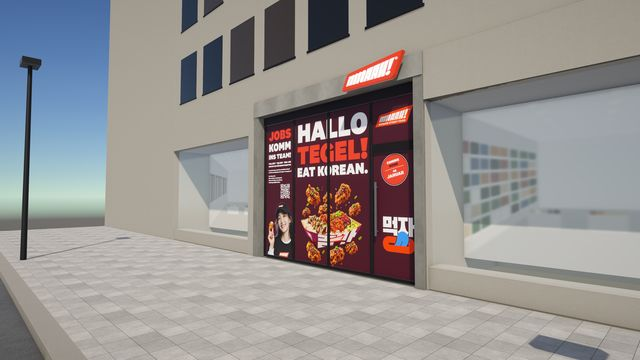
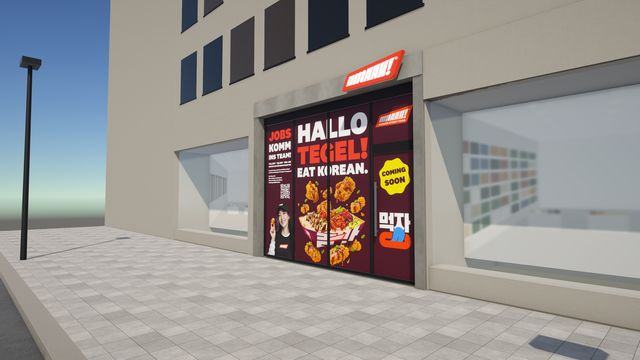
V7: echte Mmaah Bites, Visual größer, gelber Coming Soon Sticker, Tür zentriert, Freisteller ohne Rand

Changed region(s): [[0.4062, 0.4889, 0.6562, 0.7333], [0.5938, 0.4278, 0.6562, 0.55]]

diff --git a/index.html b/index.html
@@ -61,7 +61,7 @@
 <script>
 const VARS = [
   ["v0", "Ohne Folie", "Die Front ohne Beklebung, innen Rohbau, zum Vergleich."],
-  ["v7", "7 · Hallo Tegel (Korrektur 26.11.)", "<b>Hallo Tegel mit den Änderungen vom 26.11.2026.</b> HALLO, TEGEL!, EAT KOREAN. als Blocktext gleich breit, Jobs ebenso, Mitarbeiterin und QR größer, weißes Wallpaper raus. Food Visual aus V6 kleiner und nur auf den beiden mittleren Scheiben, Wings gegen echte Mmaah Bites mit Soy Garlic Soße, Sesam und Schnittlauch getauscht. Tür: Wappen 먹자 mit Mund unten rechts."],
+  ["v7", "7 · Hallo Tegel (Korrektur 26.11.)", "<b>Hallo Tegel mit den Änderungen vom 26.11.2026.</b> HALLO, TEGEL!, EAT KOREAN. als Blocktext gleich breit, Jobs ebenso, Mitarbeiterin sauber freigestellt, QR größer, weißes Wallpaper raus. Food Visual aus V6 größer, nur auf den beiden mittleren Scheiben, Wings gegen die echten Mmaah Bites mit Soy Garlic Soße, Sesam und Schnittlauch getauscht. Tür mittig: gelber Sticker COMING SOON (ohne Datum) und Wappen 먹자 mit Mund."],
   ["v6", "6 · Hallo Tegel (Korrektur 25.11.)", "<b>Hallo Tegel mit den Änderungen vom 25.11.2026.</b> Koreanisch 테겔 안녕! neben EAT KOREAN, neues Food Visual mit Soy Garlic Chicken Bites und dem Special BBQ Reis (ohne Kartoffelscheiben), Mitarbeiterin im Jobs Feld hält ein Chicken Bite, Tür EAT KOREAN SINCE 2012 mit Mund, Störer Coming Soon kleiner."],
   ["v5", "5 · Hallo Tegel", "<b>HALLO TEGEL! EAT KOREAN.</b> Großes Food Visual über Feld 2 und 3 (mit Higgsfield aus Schale, Bites Box und BBQ Reis erzeugt), Coming Soon Stempel AB JANUAR schräg auf der Tür, Logo darüber. Links bleibt das Jobs Feld mit QR Code und Mitarbeiterin."],
   ["v1", "1 · Heilbronn Stil", "<b>Wie Heilbronn.</b> Feld 1 Jobs (KOMM INS TEAM!, QR Code, Mitarbeiterin), Feld 2 und 3 Aubergine mit EAT KOREAN IN TEGEL über beide Felder und zwei Schalen, Tür Logo, Hand mit Chicken Bite und Mund, über der Tür AB JANUAR."],
